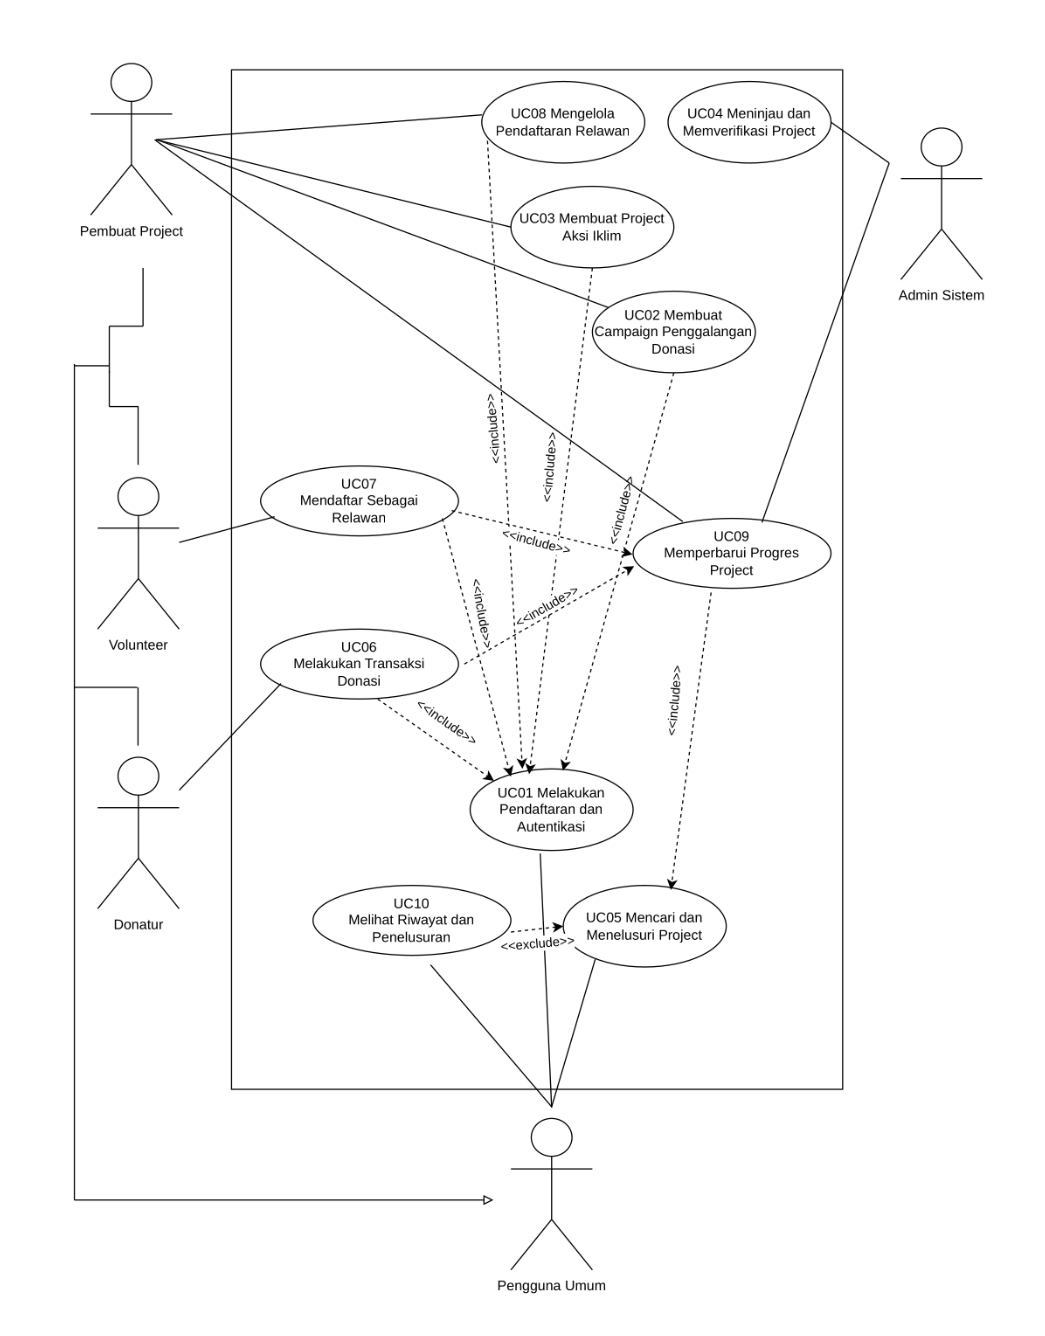
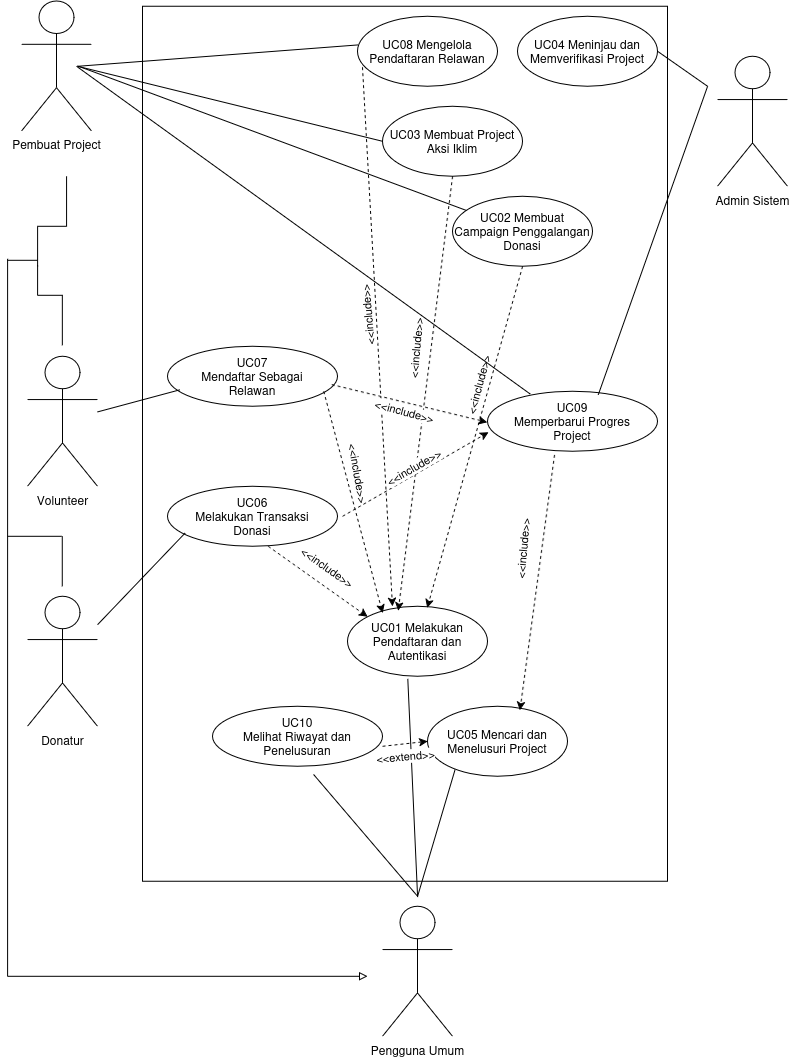
Docs: Menambahkan Diagram UC, Bab 1, dan Bab 2

diff --git a/docs/M3/K02_G08_UC.md b/docs/M3/K02_G08_UC.md
@@ -37,21 +37,47 @@ Dipersiapkan oleh:
 <br>
 
 # BAB 1: Deskripsi Perangkat Lunak
-Bagian ini boleh disalin dari 1.1 Deskripsi Umum Sistem pada dokumen *Requirement Gathering*. Pastikan isinya memang membahas deskripsi perangkat lunak kalian, seperti fitur, fungsi utama, dan cakupan sistem.
+Sistem KlimPooL merupakan kesatuan antara perangkat lunak berbasis web, para penggunanya, serta rangkaian kegiatan aksi iklim yang berlangsung di dunia nyata. Perangkat lunak berperan sebagai penghubung yang mempertemukan pihak yang memiliki kebutuhan penanganan iklim dengan pihak yang memiliki kapasitas untuk membantu, baik dalam bentuk dana maupun tenaga. Kegiatan inti dari sistem ini, seperti penanaman kembali lahan kritis, distribusi logistik ke wilayah terdampak bencana, maupun kegiatan pemulihan lingkungan lainnya, tetap berlangsung di lapangan. Perangkat lunak hadir untuk mengoordinasikan kebutuhan, kontribusi, dan pelaporan dari kegiatan tersebut agar dapat ditelusuri secara terbuka oleh seluruh pihak yang terlibat.
 
+Terdapat lima pihak yang berinteraksi dengan sistem, masing-masing dengan ekspektasi yang berbeda. Donatur mengharapkan kemudahan dalam menemukan kegiatan yang sesuai dengan kepeduliannya serta kepastian bahwa dana yang ia salurkan benar-benar dimanfaatkan sebagaimana dijanjikan. Volunteer mengharapkan informasi yang memadai mengenai jadwal, lokasi, tugas, dan keahlian yang dibutuhkan, sehingga ia dapat menilai kesesuaian sebelum mendaftarkan diri. Penggalang Donasi mengharapkan sarana untuk mengumpulkan dana secara terstruktur beserta target dan periode yang jelas. Pemilik Project mengharapkan sarana untuk menyatakan kebutuhan kegiatannya secara menyeluruh, mencakup dana, logistik, dan jumlah relawan, serta mengelola pendaftar yang masuk. Admin Sistem mengharapkan kendali yang memadai untuk menjaga agar hanya kegiatan yang layak dan terpercaya yang tayang di dalam sistem.
+
+Alur kerja sistem dimulai ketika Penggalang Donasi atau Pemilik Project mendaftarkan kegiatannya beserta seluruh kebutuhan yang menyertainya. Pengajuan tersebut tidak langsung tayang, melainkan menunggu peninjauan Admin Sistem yang memeriksa kelayakan dan kejelasan informasi. Setelah disetujui, kegiatan muncul pada peta interaktif dan katalog sehingga dapat ditelusuri oleh publik berdasarkan wilayah maupun atribut lainnya. Dari titik tersebut, pengguna dapat memilih bentuk kontribusinya. Donatur menyalurkan dana melalui saldo yang tersedia di dalam aplikasi, di mana pengisian saldo diproses melalui gerbang pembayaran yang disimulasikan tanpa melibatkan perpindahan dana yang sebenarnya. Volunteer mengisi formulir pendaftaran yang selanjutnya ditinjau oleh Pemilik Project untuk disesuaikan dengan kebutuhan dan kapasitas kegiatan.
+
+Setelah kontribusi terkumpul, kegiatan dilaksanakan di lapangan sesuai jadwal dan lokasi yang telah ditetapkan. Pada tahap inilah proses bisnis di dunia nyata berjalan, sementara perangkat lunak berperan mencatat perkembangannya. Pemilik Project memperbarui capaian, dokumentasi, dan laporan penggunaan dana secara berkala melalui sistem. Pembaruan tersebut kemudian dapat diakses oleh Donatur dan Volunteer yang mendukung kegiatan, sehingga rangkaian proses tertutup secara utuh dari pengajuan kebutuhan hingga pertanggungjawaban hasil.
+
+Melalui penerapan sistem ini, diharapkan partisipasi masyarakat dalam aksi iklim tidak lagi terbatas pada pemberian dana, tetapi juga mencakup keterlibatan langsung sebagai relawan. Penyajian kegiatan berdasarkan wilayah diharapkan menumbuhkan kesadaran mengenai persoalan iklim yang terjadi di sekitar pengguna sekaligus mendorong keterlibatan pada isu yang paling dekat dengan mereka. Adanya pelaporan yang dapat ditelusuri juga diharapkan menumbuhkan kepercayaan publik, sehingga kesediaan masyarakat untuk berkontribusi pada penanganan perubahan iklim dapat terjaga secara berkelanjutan.
 ---
 
 # BAB 2: Kebutuhan Fungsional (KF)
-Salin ulang **seluruh Kebutuhan Fungsional (KF)** yang telah didefinisikan pada dokumen *Requirement Gathering*. Tabel ini menjadi acuan *traceability*, dimana setiap Use Case pada BAB 3 wajib ditelusuri ke satu atau lebih ID KF di tabel ini, dan sebaliknya setiap KF idealnya tercakup oleh minimal satu Use Case. Pastikan juga sudah menggunakan **format EARS** dalam penulisan KF.
-
-| ID KF | Kebutuhan | Penjelasan |
+| ID KF | ID Kebutuhan | Penjelasan |
 | :--- | :--- | :--- |
-| *KF01* | *Menampilkan pilihan metode pembayaran* | *Perangkat lunak dapat menampilkan pilihan antarmuka metode pembayaran (transfer bank, e-wallet, kartu kredit) setelah pengguna melakukan checkout.* |
-| *KF02* | *Mengirim permintaan otorisasi pembayaran* | *Perangkat lunak dapat mengirimkan permintaan otorisasi transaksi ke API Payment Gateway beserta nominal tagihan dan ID Pesanan.* |
-| *...* | *...* | *...* |
-
-<sub> ***Catatan***: *Jika ada KF dari ML2 yang berubah/bertambah/dihapus setelah asistensi, pastikan tabel ini konsisten dengan versi KF terbaru sebelum dikumpulkan.*
-<sub>
+| *KF01* | *R01* | *Ketika pengguna melakukan pendaftaran akun, sistem harus menyediakan fitur pengisian data dan data tersebut digunakan untuk login.* |
+| *KF02* | *R03* | *Bila email yang dimasukkan sudah pernah digunakan, maka sistem harus menampilkan pesan kesalahan dan menolak pendaftaran.* |
+| *KF03* | *R04* | *Sistem harus menyimpan password pengguna menggunakan algoritma password hashing seperti Argon2id atau bcrypt.* |
+| *KF04* | *R05* | *Selama pengguna mengakses fitur yang membutuhkan autentikasi, sistem harus memastikan pengguna berada dalam status telah login.* |
+| *KF05* | *R07* | *Sistem harus menyediakan fitur pembuatan campaign Penggalangan Donasi yang memuat judul, deskripsi, target dana, periode penggalangan, dan informasi penggunaan dana.* |
+| *KF06* | *R09, R15* | *Sistem harus menyimpan data campaign atau project beserta informasi pembuatnya dan memberikan status verifikasi (draft, pending verification, published, atau rejected).* |
+| *KF07* | *R10* | *Bila nilai target dana bernilai negatif/kosong atau rentang waktu periode tidak valid, maka sistem harus menolak pembuatan campaign.* |
+| *KF08* | *R11* | *Sistem harus menyediakan fitur pembuatan campaign project aksi iklim yang memuat deskripsi kegiatan, lokasi, jadwal, kebutuhan dana, kebutuhan logistik, jumlah volunteer, dan keahlian yang dibutuhkan.* |
+| *KF09* | *R13* | *Sistem harus menyimpan informasi project dan menghubungkannya dengan akun Pembuat Project yang membuatnya.* |
+| *KF10* | *R14* | *Bila jadwal atau lokasi kosong atau nilai kebutuhan bernilai negatif, maka sistem harus menolak pembuatan project.* |
+| *KF11* | *R17* | *Ketika peninjauan project selesai dilakukan, sistem harus memperbarui status verifikasi (diterima atau ditolak) beserta alasannya.* |
+| *KF12* | *R18* | *Selama pengguna bukan Admin Sistem, sistem harus melarang akses ke fungsi peninjauan dan verifikasi.* |
+| *KF13* | *R21* | *Sistem harus menyediakan fungsi pencarian dan penyaringan campaign atau project berdasarkan atribut seperti kategori, lokasi, status, atau periode kegiatan.* |
+| *KF14* | *R19, R20, R22* | *Selama pengguna berstatus pengguna umum (Donatur dan Volunteer), sistem harus menampilkan hanya campaign dan project yang berstatus telah di publikasikan beserta informasi lengkapnya.* |
+| *KF15* | *R23, R26* | *Ketika Donatur mengirimkan permintaan donasi, sistem harus memvalidasi saldo, mengurangi saldo Donatur, menambahkan dana ke saldo tujuan, serta mencatat transaksi dalam satu proses yang konsisten.* |
+| *KF16* | *R27* | *Bila terjadi kegagalan pada salah satu tahap transaksi donasi, maka sistem harus membatalkan seluruh perubahan saldo dan pencatatan transaksi (atomic rollback & consistency).* |
+| *KF17* | *R28* | *Ketika transaksi berhasil diproses, sistem harus membuat ID transaksi unik dan menyimpan riwayat transaksi yang mencakup Donatur, tujuan dana, nominal, waktu, dan status transaksi.* |
+| *KF18* | *R29* | *Bila permintaan donasi menggunakan idempotency key yang sudah terdaftar, maka sistem harus menolak pemrosesan transaksi berulang.* |
+| *KF19* | *R30, R32* | *Bila pengguna mengirimkan pendaftaran lebih dari satu kali pada project yang sama atau data formulir tidak lengkap (data diri, keahlian, pengalaman, dan ketersediaan jadwal), maka sistem harus menolak pengiriman pendaftaran.* |
+| *KF20* | *R33, R34* | *Ketika pengguna mengirimkan pendaftaran volunteer, sistem harus menyimpan data pendaftaran dan status pendaftaran (pending, accepted, atau rejected).* |
+| *KF21* | *R35, R37* | *Ketika Pembuat Project menyimpan keputusan pendaftaran, sistem harus memperbarui status pendaftaran volunteer secara otomatis.* |
+| *KF22* | *R38* | *Ketika status pendaftaran diperbarui, sistem harus menampilkan informasi status penerimaan atau penolakan kepada pengguna, dan jika diterima, menampilkan instruksi lokasi serta jadwal kegiatan.* |
+| *KF23* | *R39, R41* | *Ketika pembaruan progres disimpan, sistem harus mencatat data pembaruan beserta waktu pembaruan agar perkembangan project dapat ditelusuri.* |
+| *KF24* | *R42* | *Sistem harus menyediakan API untuk mengunggah dan mengambil dokumentasi progres serta menghubungkannya dengan project terkait.* |
+| *KF25* | *R43* | *Bila pengguna yang mencoba mengubah progres project bukan Pembuat Project terkait atau Admin Sistem, maka sistem harus menolak hak perubahan tersebut.* |
+| *KF26* | *R47* | *Ketika transaksi baru berhasil diproses, sistem harus menghitung dan memperbarui total dana terkumpul serta persentase pencapaian target secara otomatis.* |
+| *KF27* | *R44, R45, R48* | *Sistem harus menyediakan riwayat transaksi dan perubahan progres yang dapat ditelusuri berdasarkan waktu dan aktivitas yang dilakukan.* |
 
 ---
 
@@ -92,8 +118,6 @@ Daftarkan seluruh aktor yang terlibat dalam use case yang akan dimodelkan. Aktor
 <i>Gambar 1. Use Case Diagram</i>
 </p>
 <br>
-
-Seluruh use case pada diagram terhubung langsung ke aktornya melalui relasi asosiasi. Relasi include dan extend tidak digunakan karena tidak terdapat perilaku yang wajib dijalankan bersama oleh beberapa use case, maupun perilaku opsional yang cukup besar untuk dimodelkan sebagai use case perluasan. Kondisi kegagalan seperti penolakan donasi atau penolakan pendaftaran relawan dimodelkan sebagai skenario alternatif pada subbab 3.4. Relasi generalisasi digunakan pada aktor Pembuat Project, Donatur, dan Volunteer yang mewarisi asosiasi dari aktor Pengguna Umum.
 
 ## 3.4 Skenario Use Case
 

diff --git a/docs/M2/K02_G08_RG.md b/docs/M2/K02_G08_RG.md
@@ -168,7 +168,6 @@ Karena KlimPooL menggunakan data tiruan, khususnya pada data proyek dan saldo pe
 
 ## 2.4 Kebutuhan Fungsional (KF)
 
-Untuk setiap kebutuhan yang telah diidentifikasi sebagai "didukung oleh perangkat lunak", buatlah daftar kebutuhan fungsional P/L, lengkap dengan ID Kebutuhan Fungsional (KF) dan penjelasannya. Hubungkan ID Kebutuhan Fungsional dengan ID Pemetaan Kebutuhan dari sistem.
 
 | ID KF | ID Kebutuhan | Penjelasan |
 | :--- | :--- | :--- |
@@ -203,7 +202,6 @@ Untuk setiap kebutuhan yang telah diidentifikasi sebagai "didukung oleh perangka
 
 ## 2.5 Kebutuhan Non-Fungsional (KNF)
 
-Uraikan dengan ringkas Kebutuhan Non-Fungsional dalam tabel sebagai berikut. Isilah kolom kebutuhan dengan kalimat yang jelas, spesifik, dan terukur (kelak dapat diuji untuk dipenuhi). Kolom ID KNF adalah nomor Kebutuhan Non-Fungsional yang harus ditelusuri pada saat pengujian. Hubungkan ID Kebutuhan Non-Fungsional dengan ID Pemetaan Kebutuhan Umum dari sistem.
 
 | ID KNF | ID Kebutuhan | Parameter (ISO 25010:2023) | Deskripsi Kebutuhan |
 |---|---|---|---|

diff --git a/docs/K02_G08_Logbook.md b/docs/K02_G08_Logbook.md
@@ -80,8 +80,10 @@
 | :--- | :--- | :--- | :--- | :--- | :--- | 
 | 14-09-2026 | Naya | Subbab 3.2 | 1 | Done | - | 
 | 15-09-2026 | Naya | Revisi Subbab 3.2 | 0,5 | Done | - | 
+| 16-09-2026 | Bryan | Mengerjakan diagram UC 3.3 | 4 | Done | - |
 | 15-09-2026 | Sahla | Subbab 3.4.6 - 3.4.10 | 2,5 | Done | - | 
-| 16-09-2026 | Sahla | Revisi Subbab 3.4.6 - 3.4.10 | 2 | Done | - | 
+| 16-09-2026 | Sahla | Revisi Subbab 3.4.6 - 3.4.10 | 2 | Done | - |
+| 16-09-2026 | Bryan | Menambahkan bab 1 dan 2 | <1 | Done | - | 
 
 
 **Catatan/Evaluasi Milestone 3:**
